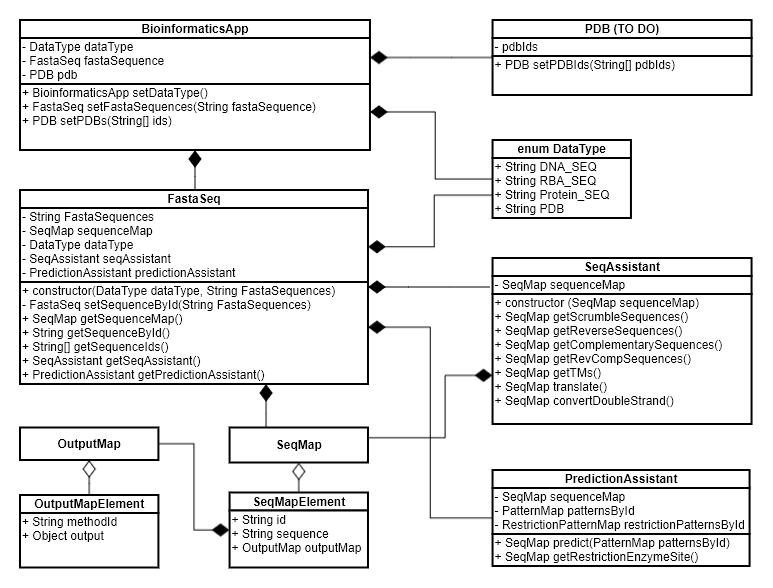
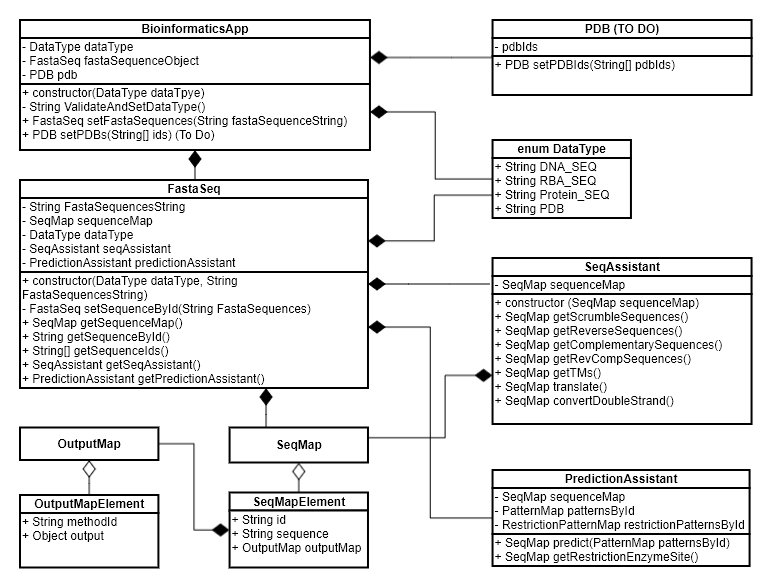
BH-004: completed the implementation of FastaSeq object basic construtor

diff --git a/test/fasta/FastaSeq.test.js b/test/fasta/FastaSeq.test.js
@@ -1,0 +1,41 @@
+const fs = require("fs");
+const BioinformaticsApp = require("./../../index");
+const DataType = require("../../src/constants/DataType");
+
+// Below are three individule sequences extracted from fastaDNASequence1.txt manually.
+const unnamedSequence1 = "TTTCCCAACAGGATCTCCCACCAGCCCAGCTTTTCTATATAGGCTCTGACCTCTGGTCATCCAAGTTGCAGGATGTCGATGACAGACTTGCTCAGCGCTGAGGACATCAAGAAGGCGATAGGAGCCTTTACTGCTGCAGACTCCTTCGACCACAAAAAGTTCTTCCAGATGGTGGGCCTGAAGAAAAAGAGTGCGGATGATGTGAAGAAGGTGTTCCACATTCTGGACAAAGACAAAAGTGGCTTCATTGAGGAGGATGAGCTGGGGTCCATTCTGAAGGGCTTCTCCTCAGATGCCAGAGACTTGTCTGCTAAGGAAACAAAGACGCTGATGGCTGCTGGAGACAAGGACGGGGACGGCAAGATTGGGGTTGAAGAATTCTCCACTCTGGTGGCCGAAAGCTAAGTGGCGCTGACTGCTTGGGTCTCCCACCTCTCCACCCCCCATGCCCCATCTCAGCCCTTCTCGCGGCCCTCCTGGGTTTCTGTTCAGTTTGTTTATGTTATTTTTTACTCCCCCATCCTTTATGGCCCTCGAATGACACCACTCTTCTGGAAAATGCTGGAGAAACAATAAAGGCTGTACCCATCGGACACCACCTGTAGGGAGGACCCAGGCCTGGTAGGTGTTGGTTTGGCAAGTTTTTCCGGACAGCAGTGGGGGTATAGTAGAAAAAGTGAGAGAGAGCGAAGGACCACGCCCTGATATTTCCTGCCTGCTTGGTACCGAGTGGTCACGTGGGCCACCTTGTTCAGTCTTTGTGCCTTTCCTACAAGGGGATGGGATGGCGCAGGGGATTTTAAAGATGCAGAAACTGCCTTTTAAAGAGCAGAACGGAAGGGGCTGAGTCCACAGGTGATTACTTTATGTCCCTGAGGAATAACTAGGTCGAAGGACTCAAATGACACTCTATCAATTGCTTTTGACTTTGCTGTGATAAAATTCCTGATAAGAGAAACTT";
+const sampleSequence2 = "AAACTCCTCTTTGATTCTTCTAGCTGTTTCACTATTGGGCAACCAGACACCAGAATGAGTACTAAAAAGTCTCCTGAGGAACTGAAGAGGATTTTTGAAAAATATGCAGCCAAAGAAGGTGATCCAGACCAGTTGTCAAAGGATGAACTGAAGCTATTGATTCAGGCTGAATTCCCCAGTTTACTCAAAGGTCCAAACACCCTAGATGATCTCTTTCAAGAACTGGACAAGAATGGAGATGGAGAAGTTAGTTTTGAAGAATTCCAAGTATTAGTAAAAAAGATATCCCAGTGAAGGAGAAAACAAAATAGAACCCTGAGCACTGGAGGAAGAGCGCTGTGCTGTGGTCTTATCCTATGTGGAATCCCCCAAAGTCTCTGGTTTAATTCTTTGCAATTATAATAACCTGGCTGTGAGGTTCAGTTATTATTAATAAAGAAATTACTAGACATAC";
+const unnamedSequence2 = "TTCGGCCGGC"; 
+
+/**
+ * Test {FastaSeq} contains the expected attributes initialized by {BioinformaticsApp}.
+ */
+test("asc", () => {
+  fs.readFile("./seeds/fastaDNASequence1.txt", (err, data) => {
+    const fastaSequenceString = data.toString(); 
+    const app = new BioinformaticsApp("dna");
+    const fastaSeq = app.setFastaSequences(fastaSequenceString);
+    
+    // assert data type
+    expect(fastaSeq.dataType).toBe(DataType.DNA);
+    // assert the orginal fasta sequence saved in the BioinformaticsApp 
+    expect(fastaSeq.fastaSequencesString).toBe(fastaSequenceString);
+    // assert that fastaSequenceObject in BioinformaticsApp contains the expected object
+    expect(app.fastaSequenceObject).toBe(fastaSeq);
+    // assert {SeqMap} inside of {FastaSeq}
+    const seqMap = fastaSeq.seqMap;
+    expect(seqMap.size).toBe(3);
+    expect(seqMap.has("Unnamed sequence 1")).toBe(true);
+    expect(seqMap.has("Sample sequence 2")).toBe(true);
+    expect(seqMap.has("Unnamed sequence 2")).toBe(true);
+    // assert the first sequence in the fasta file
+    expect(seqMap.get("Unnamed sequence 1")["sequence"]).toBe(unnamedSequence1);
+    expect(seqMap.get("Unnamed sequence 1")["sequenceId"]).toBe("Unnamed sequence 1");
+    // assert the sequence in the fasta file
+    expect(seqMap.get("Sample sequence 2")["sequence"]).toBe(sampleSequence2);
+    expect(seqMap.get("Sample sequence 2")["sequenceId"]).toBe("Sample sequence 2");
+    // assert the third sequence in the fasta file
+    expect(seqMap.get("Unnamed sequence 2")["sequence"]).toBe(unnamedSequence2);
+    expect(seqMap.get("Unnamed sequence 2")["sequenceId"]).toBe("Unnamed sequence 2");
+  });
+});

diff --git a/test/BioinformaticsApp.test.js b/test/BioinformaticsApp.test.js
@@ -1,13 +1,74 @@
 const BioinformaticsApp = require("./../index");
+const DataType = require("../src/constants/DataType");
 
 /**
- * Test that getVersion() method returns the expected version.
+ * Test constructor method can set dataType attributes properly
  */
-test ("test getVersion method to return expected version", () => {
-  // setup test
-  const app = new BioinformaticsApp();
-  const version = app.getVersion();
-  // test expected version
-  expect(version).toBe("0.0.1");
+test ("test constructor", () => {
+  let app = new BioinformaticsApp("DNA");
+  expect(app.dataType).toBe(DataType.DNA);
+  app = new BioinformaticsApp("RNA");
+  expect(app.dataType).toBe(DataType.RNA);
+  app = new BioinformaticsApp("Protein");
+  expect(app.dataType).toBe(DataType.PROTEIN);
+  app = new BioinformaticsApp("PDB");
+  expect(app.dataType).toBe(DataType.PDB);
 });
 
+/**
+ * Test constructor method can set dataType attributes properly, when input is a lowercase string
+ */
+test ("test constructor with lowercase string input", () => {
+  let app = new BioinformaticsApp("dna");
+  expect(app.dataType).toBe(DataType.DNA);
+  app = new BioinformaticsApp("Rna");
+  expect(app.dataType).toBe(DataType.RNA);
+  app = new BioinformaticsApp("protein");
+  expect(app.dataType).toBe(DataType.PROTEIN);
+  app = new BioinformaticsApp("pdb");
+  expect(app.dataType).toBe(DataType.PDB);
+});
+
+/**
+ * Test constructor method throw error when input string is invalid.
+ */
+test ("test constructor with lowercase string input", () => {
+  expect(()=>{
+    new BioinformaticsApp("unknown string");
+  }).toThrow("Invalid dataType. dataType must be 'DNA', 'RNA', 'protein', or 'PDB'.");
+});
+
+/**
+ * Test validateAndSetDataType method return expected {string} of datatype.
+ */
+test ("test validateAndSetDataType method", () => {
+  const app = new BioinformaticsApp("DNA");
+  expect(app.validateAndSetDataType("DNA")).toBe(DataType.DNA);
+  expect(app.validateAndSetDataType("rna")).toBe(DataType.RNA);
+  expect(app.validateAndSetDataType("protein")).toBe(DataType.PROTEIN);
+  expect(app.validateAndSetDataType("pdb")).toBe(DataType.PDB);
+  expect(()=> {
+    app.validateAndSetDataType("invalid String");
+  }).toThrow("Invalid dataType. dataType must be 'DNA', 'RNA', 'protein', or 'PDB'.");
+});
+
+/**
+ * Test validateAndSetDataType method throw error when input String is invalid.
+ */
+test ("test validateAndSetDataType method with invalid input", () => {
+  const app = new BioinformaticsApp("DNA");
+  expect(()=> {
+    app.validateAndSetDataType("invalid String");
+  }).toThrow("Invalid dataType. dataType must be 'DNA', 'RNA', 'protein', or 'PDB'.");
+});
+
+/**
+ * Test that setFastaSequences returns expected {FastaSeq} object
+ */
+test("test setFastaSequences returns expected object", () => {
+  const app = new BioinformaticsApp("protein");
+  const fastaSequencesString = ">fake sequence1 \nDKDGNGY\nDKDGNGY >sequence2\nGGGGNGY"; 
+  const fastaSeq = app.setFastaSequences(fastaSequencesString);
+  expect(fastaSeq.dataType).toBe(DataType.PROTEIN);
+  expect(fastaSeq.fastaSequencesString).toBe(fastaSequencesString );
+});

diff --git a/src/fasta/FastaSeq.js b/src/fasta/FastaSeq.js
@@ -1,0 +1,64 @@
+class FastaSeq {
+  /**
+   * Constructor for FastaSeq class. 
+   * @param {DataType} dataType, the type of the input data (can be DNA, RNA, Protein or PDB).
+   * @param {string} fastaSequecnesString, fasta sequences string.
+   */
+  constructor(datatype, fastaSequecnesString) {
+    this.dataType = datatype;
+    this.fastaSequencesString = fastaSequecnesString;
+    this.seqMap = this.covertSeqToMap();
+    this.seqAssistant = null;
+    this.PredictionAssistant = null;
+  }
+
+  /**
+   * Converts the {String} fasta sequence into a {Map}.
+   * @return {Map} a map represtive of fasta sequences.
+   */
+  covertSeqToMap() {
+    // Step 1: store each indivalue fasta sequence in to a fasta sequence unit array (fastaUnitArray). 
+    const seqMap = new Map();
+    // split String by ">", and keep >
+    const fastaUnitArray = this.fastaSequencesString.trim().split(/(?=>)/g);
+    // prepare index for unnamed sequences
+    let unnamedSeqIndex = 1;
+
+    // Step 2: loop through each fasta sequence unit and split key (sequence Id) and value (DNA or protein sequence)
+    for (const index in fastaUnitArray) {
+      // split each line and store each line in to an array
+      const lineArray = fastaUnitArray[index].split(/\r?\n/);
+      
+      let sequenceId;
+      let sequence = "";
+      // First line must start with ">" followed by sequence Id. Otherwize this fasta sequence unit 
+      // do not have an id, and we want to give a id called "Unnamed sequence " + unnamedSeqIndex;
+      if (lineArray[0].trim().charAt(0) === ">" && lineArray[0].trim().length > 1) { // key is available
+        sequenceId = lineArray[0].trim().substring(1);        
+      } else { // key is not available
+        sequenceId = "Unnamed sequence " + unnamedSeqIndex;
+        unnamedSeqIndex++;
+        if(lineArray[0].trim().charAt(0) !== ">") {
+          sequence = sequence + lineArray[0].replace(/\s/g, ""); // the sequence start from the first line, so append it
+        }
+      }
+      
+      // now create the sequence from fasta unit
+      for (let i = 1; i<lineArray.length; i++){
+        sequence = sequence + lineArray[i].replace(/\s/g, "");
+      }
+
+      // Step 3: store sequenceId and sequence into a {sequenceId} object.
+      const seqMapElement = {
+        sequenceId: sequenceId,
+        sequence: sequence,
+        outputMap: new Map(),
+      };
+      seqMap.set(sequenceId, seqMapElement);
+    }
+    // once for loop finish, return seqMap
+    return seqMap;
+  }
+}
+
+module.exports = FastaSeq;

diff --git a/src/BioinformaticsApp.js b/src/BioinformaticsApp.js
@@ -1,11 +1,51 @@
+const DataType = require("./constants/DataType");
+const FastaSeq = require("./fasta/FastaSeq");
+
 class BioinformaticsApp {
   
   /**
-   * Gets the version of the application.
-   * @returns {string} The version of current application.
+   * The constructor for {BioinformaticsApp}.
+   * @param {string} dataType, the string represtive of the type of the input data.
+   *  must be "DNA", "RNA", "protein", or "pdb".
    */
-  getVersion() {
-    return "0.0.1";
+  constructor (dataType) {
+    this.dataType = this.validateAndSetDataType(dataType);
+    this.fastaSequenceObject = null;
+  }
+
+  /**
+   * Validates input type of the data used in this application. If valid, return the 
+   * data type string in {DataType} constant. This is a helper function to validate and 
+   * set dataType in constructor in this class.
+   * @param {string} dataType, the string represtive of the type of the input data.
+   *  must be "DNA", "RNA", "protein", or "pdb".
+   * @returns {string} data type string in {DataType} object.
+   * @throws exception if input dataType is not valid.
+   */
+  validateAndSetDataType(dataType) {
+    switch (dataType.toUpperCase()){
+    case "DNA":
+      return DataType.DNA;
+    case "RNA":
+      return DataType.RNA;
+    case "PROTEIN":
+      return DataType.PROTEIN;
+    case "PDB":
+      return DataType.PDB;
+    default:
+      throw new Error("Invalid dataType. dataType must be 'DNA', 'RNA', 'protein', or 'PDB'.");
+    }
+  }
+
+  /**
+   * Sets the {FastaSeq} fasta sequences for {BioinformaticsApp}.
+   * @param {string} fastaSequencesString 
+   * @returns {FastaSeq} object with its attributes, dataType and fastaSequencesString, being set. 
+   */
+  setFastaSequences(fastaSequencesString) {
+    const fastaSeq = new FastaSeq(this.dataType, fastaSequencesString);
+    this.fastaSequenceObject = fastaSeq;
+    return fastaSeq;
   }
 }
 

diff --git a/integrationTest/fastaSeq.js b/integrationTest/fastaSeq.js
@@ -1,0 +1,28 @@
+const fs = require("fs");
+const BioinformaticsApp = require("./../index");
+
+/**
+ * Test the following workflow: 
+ * 1. read fastaFile; 
+ * 2. create a BioinformaticsApp
+ * 3. set up FASTA sequence, and then {FastaSeq} object is returned with expected structure.
+ */
+fs.readFile("./seeds/fastaDNASequence1.txt", (err, data) => {
+  if (err) {
+    console.log("Cannot read seeds fasta file");
+  } else {
+    // integration test start here
+    const fastaSequenceString = data.toString(); 
+    const app = new BioinformaticsApp("dna");
+    app.setFastaSequences(fastaSequenceString);
+
+    // you can use console log to check if the object is setup correctly.
+    // console.log("Structure of BioinformaticsApp after create this object: ");
+    // console.log(app);
+    // console.log("Structure of FastaSeq: ");
+    // console.log(app.fastaSequenceObject);
+    console.log("Structure of SeqMap");
+    console.log(app.fastaSequenceObject.seqMap);
+  }
+});
+

diff --git a/test/constants/DataType.test.js b/test/constants/DataType.test.js
@@ -1,0 +1,21 @@
+const DataType = require("./../../src/constants/DataType");
+
+test ("DataType returns expected enum value", ()=> {
+  expect(DataType.DNA).toBe("DNA");
+  expect(DataType.RNA).toBe("RNA");
+  expect(DataType.PROTEIN).toBe("protein");
+  expect(DataType.PDB).toBe("pdb");
+});
+
+test ("Values in DataType cannot be changed", ()=> {
+  // try to change the value in constant
+  DataType.DNA = "changed string 1";
+  DataType.RNA = "changed string 2";
+  DataType.PROTEIN = "changed string 3";
+  DataType.PDB = "changed string 4";
+  // expect value will not be changed.
+  expect(DataType.DNA).toBe("DNA");
+  expect(DataType.RNA).toBe("RNA");
+  expect(DataType.PROTEIN).toBe("protein");
+  expect(DataType.PDB).toBe("pdb");
+});

diff --git a/src/constants/DataType.js b/src/constants/DataType.js
@@ -1,0 +1,10 @@
+const DataType = Object.freeze(
+  {
+    DNA: "DNA",
+    RNA: "RNA",
+    PROTEIN: "protein", 
+    PDB: "pdb"
+  }
+);
+
+module.exports = DataType;
